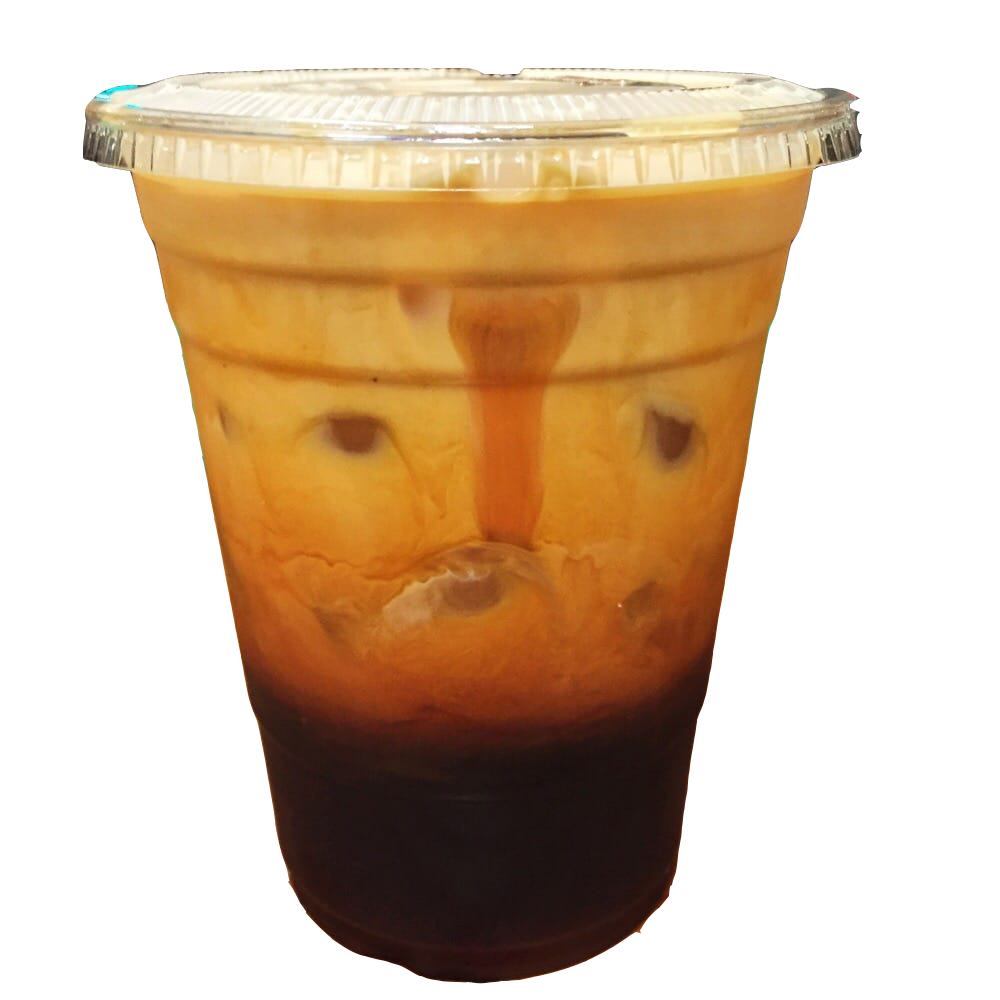
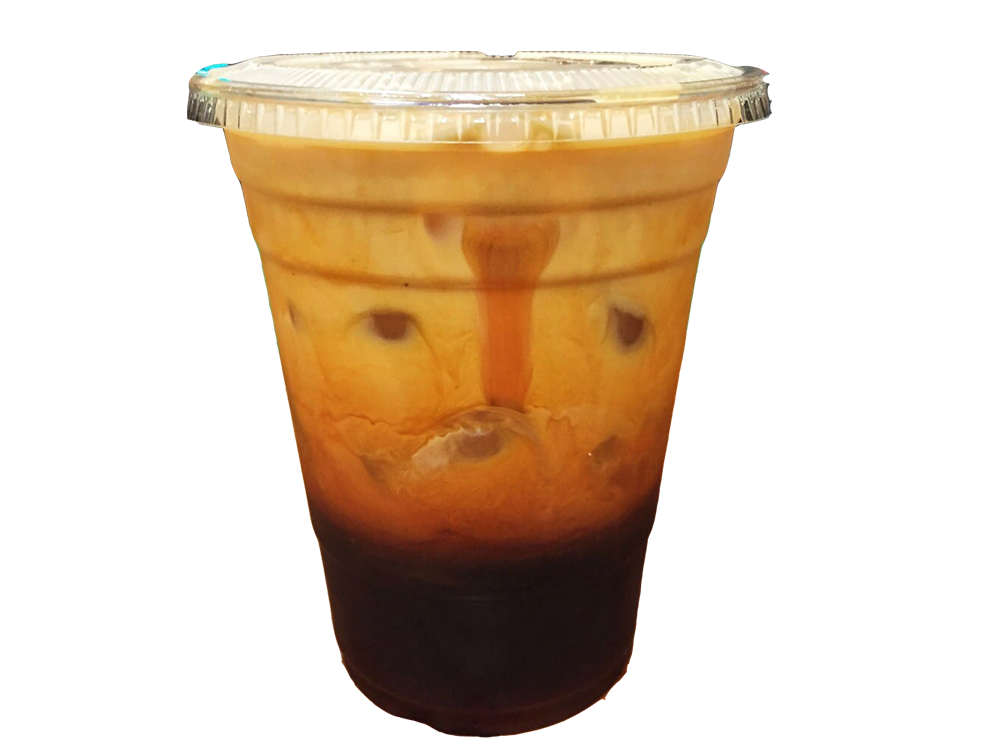
Drinks Menu
add more detailed pics for the drinks menu

diff --git a/menu.html b/menu.html
@@ -121,28 +121,28 @@
 				<p>24 oz Large $4.50</p>
 			</div>
 			<div class="menuitem">
-				<p><img src="images/vietnamese-coffee1_3.50.png"></p>
+				<p><img src="images/jasminemilktea.png"></p>
 				<p id="menuitemname">Jasmine Milk Tea</p>
 				<p>16 oz Small $3.50
 				<p>20 oz Med $4.00</p>
 				<p>24 oz Large $4.50</p>
 			</div>
 			<div class="menuitem">
-				<p><img src="images/vietnamese-coffee1_3.50.png"></p>
+				<p><img src="images/honeydewmilktea.png"></p>
 				<p id="menuitemname">Honeydew Milk Tea</p>
 				<p>16 oz Small $3.50
 				<p>20 oz Med $4.00</p>
 				<p>24 oz Large $4.50</p>
 			</div>
 			<div class="menuitem">
-				<p><img src="images/vietnamese-coffee1_3.50.png"></p>
+				<p><img src="images/oolongtea.png"></p>
 				<p id="menuitemname">Dark Roast Oolong Milk Tea</p>
 				<p>16 oz Small $3.50
 				<p>20 oz Med $4.00</p>
 				<p>24 oz Large $4.50</p>
 			</div>
 			<div class="menuitem">
-				<p><img src="images/vietnamese-coffee1_3.50.png"></p>
+				<p><img src="images/taromilktea.png"></p>
 				<p id="menuitemname">Taro Milk Tea</p>
 				<p>16 oz Small $3.50
 				<p>20 oz Med $4.00</p>
@@ -191,7 +191,7 @@
 				<p>24 oz Large $4.50</p>
 			</div>
 			<div class="menuitem">
-				<p><img src="images/vietnamese-coffee1_3.50.png"></p>
+				<p><img src="images/thai-iced-tea.png"></p>
 				<p id="menuitemname">Thai Milk Tea</p>
 				<p>16 oz Small $3.50
 				<p>20 oz Med $4.00</p>
